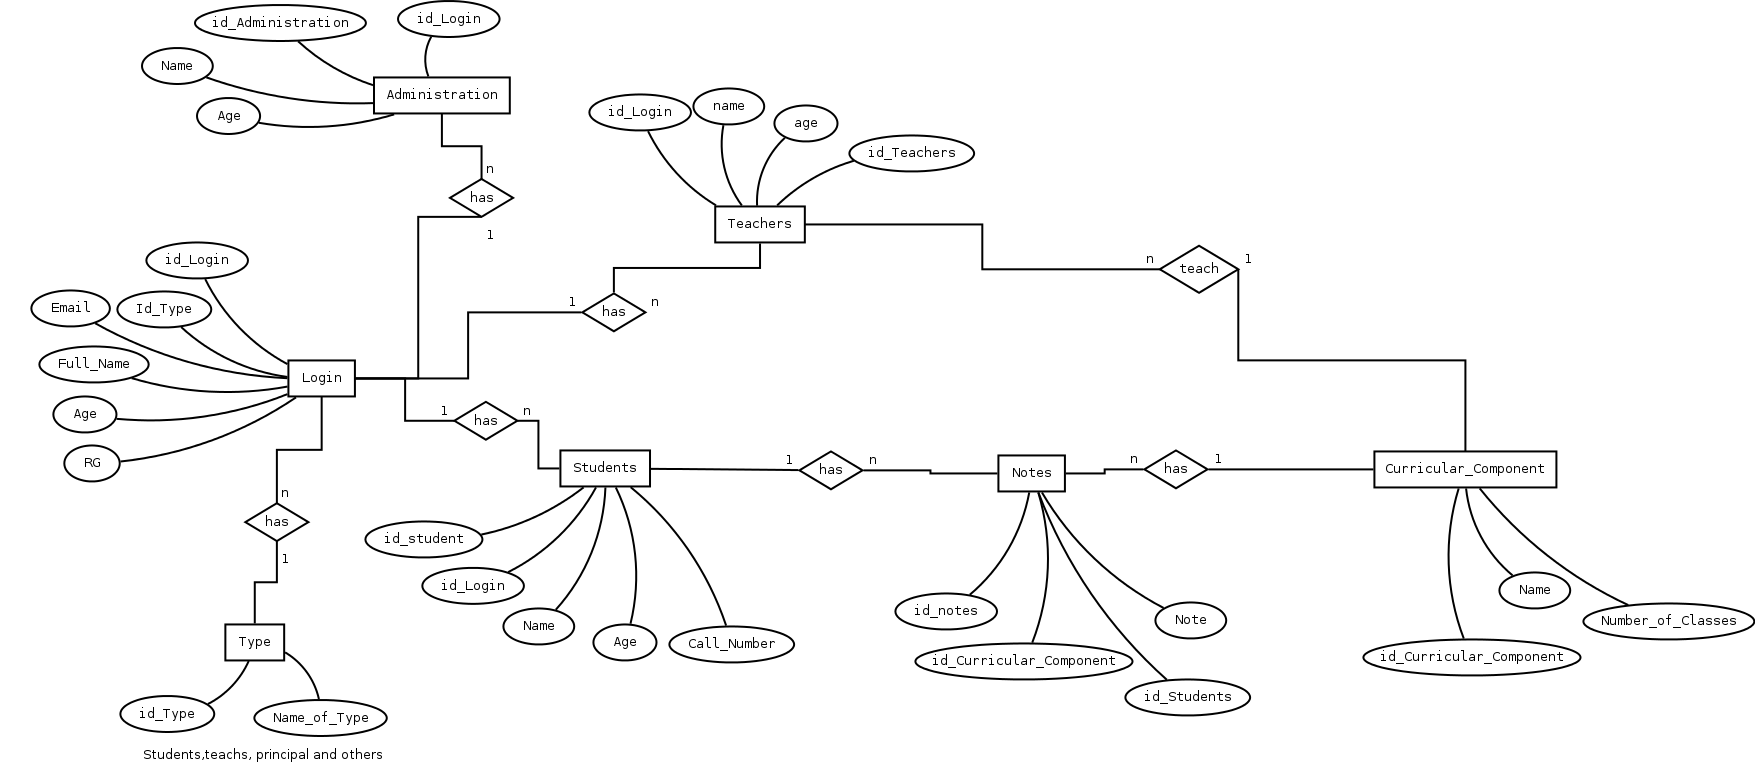
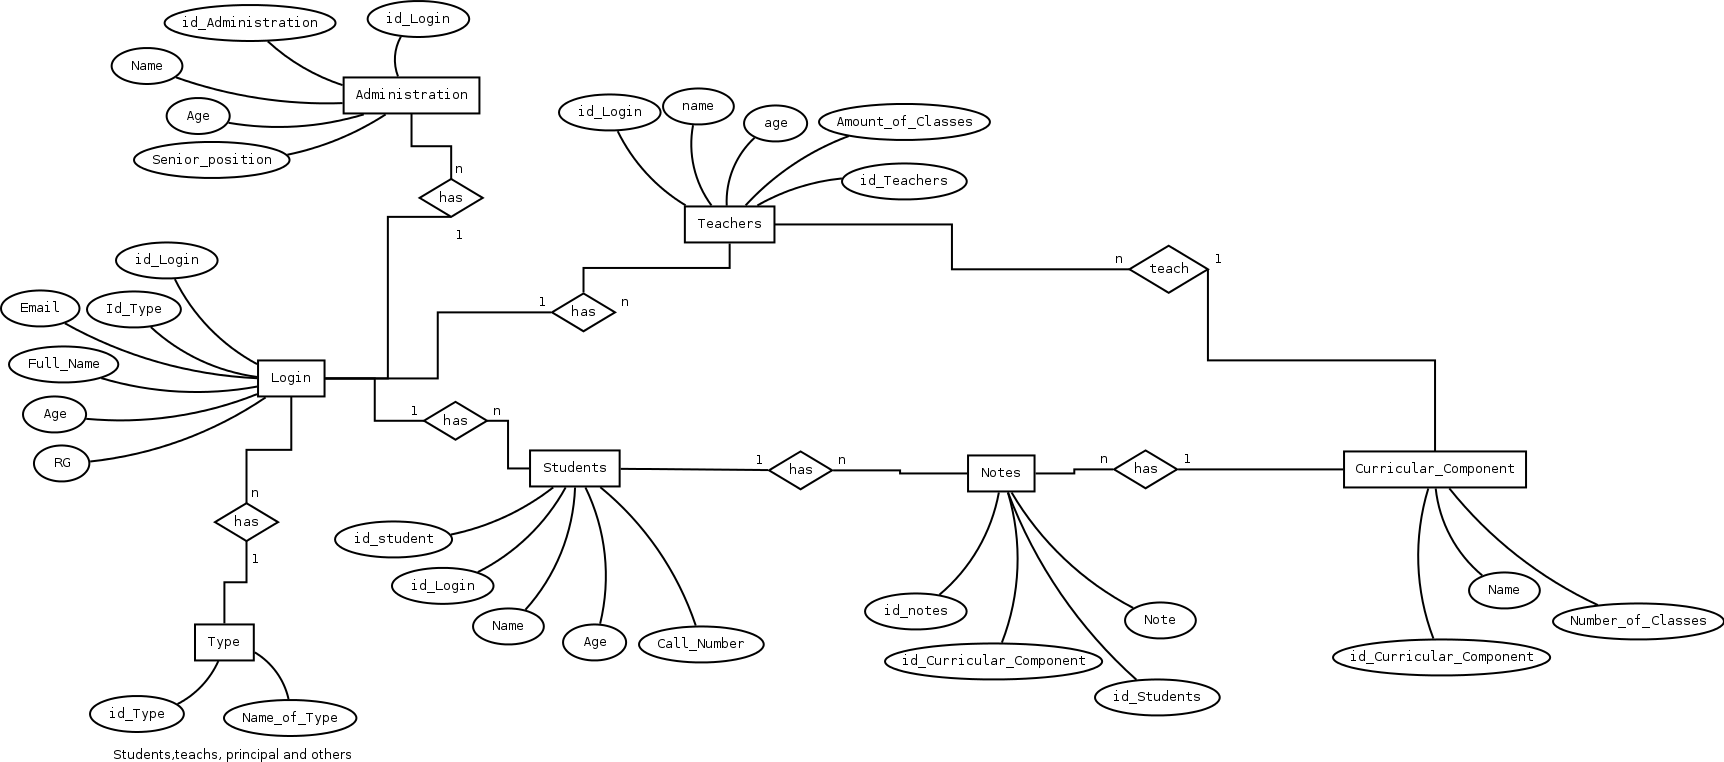
ver o coisa do autoload e nomespace depois

diff --git a/classes/people.php b/classes/people.php
@@ -1,12 +1,53 @@
 <?php
 
-	namespace people{
+	namespace classes{
 
-		class people{
- 
-			public function __construct(){
+		abstract class people{
+ 			
+
+			//atributes
+			protected $name;
+			protected $age;
+			protected $id;//number of register in  the database
+			
+			//Get and set methods
+			public function getName(){
+			
+				return $this->name;
+
+			}
+
+			public function setName($name){
+
+				$this->name = $name;
+	
+			}
+			public function getAge(){
+
+				return $this->age;
+
+			}	
+			public function setAge($age){
+
+				$this->age = $age;
+		
+			}		
+			public function getId(){
+
+				return $this->id;
+
+			}
+			public function setId($id){
+
+				$this->id = $id;	
+
+			}			
+		
+			//Construct
+			public function __construct($name, $age){
 				
-				echo "<p>Objeto novo</p>";
+				$this->name = $name;
+				$this->age = $age;
 
 			}
 	

diff --git a/classes/teacher.php b/classes/teacher.php
@@ -1,10 +1,31 @@
 <?php
 
-	namespace people{
+	namespace classes{
 
-		class teacher extends people{
+		final class teacher extends people{
 
+			//Amount of month classes
+			private $amount_of_classes;
+	
+			//get and set method
+			public function get_amount_of_classes(){
+
+			  	return $this->amount_of_classes;
 			
+			}
+			public function set_amount_of_classes($amount_of_classes){
+
+				$this->amount_of_classes = $amount_of_classes;
+			
+			}			
+
+			public function __construct($name, $age, $amount_of_classes){
+
+				parent::__construct($name, $age);
+
+				$this->amount_of_classes = $amount_of_classes;
+
+			}			
 
 		}
 

diff --git a/classes/student.php b/classes/student.php
@@ -1,12 +1,28 @@
 <?php
+	
+	namespace classes{
 
-	namespace people{
-
-		class student extends people{
+		final class student extends people{
 		
-			public function __construct(){
+			private $call_Number;
 
-				parent::__construct();
+			//get and set method
+			public function get_Call_Number(){
+
+				return $this->call_Number;
+
+			}
+			public function set_Call_Number($call_Number){
+
+				$this->call_Number = $call_Number;
+
+			}
+
+			public function __construct($name, $age, $call_Number){
+
+				parent::__construct($name, $age);
+				
+				$this->call_Number = $call_Number;
 
 			}			
 

diff --git a/index.php b/index.php
@@ -39,9 +39,9 @@
 		<?php
 				
 			//Just a test
-			include("classes/people.php");
-			include("classes/student.php");			
-			$f = new people\student();
+			include_once "autoload.php";
+						
+			$f = new student();
 
 
 		?>

diff --git a/autoload.php b/autoload.php
@@ -1,0 +1,18 @@
+<?php
+
+	function __autoload($class){
+
+		if(file_exists($class . ".php")){
+
+			include_once $class . ".php"; 
+
+		}
+		else{
+
+			echo "<p>No have class " .$class.".php</p>";
+
+		}	
+
+	}
+
+?>
